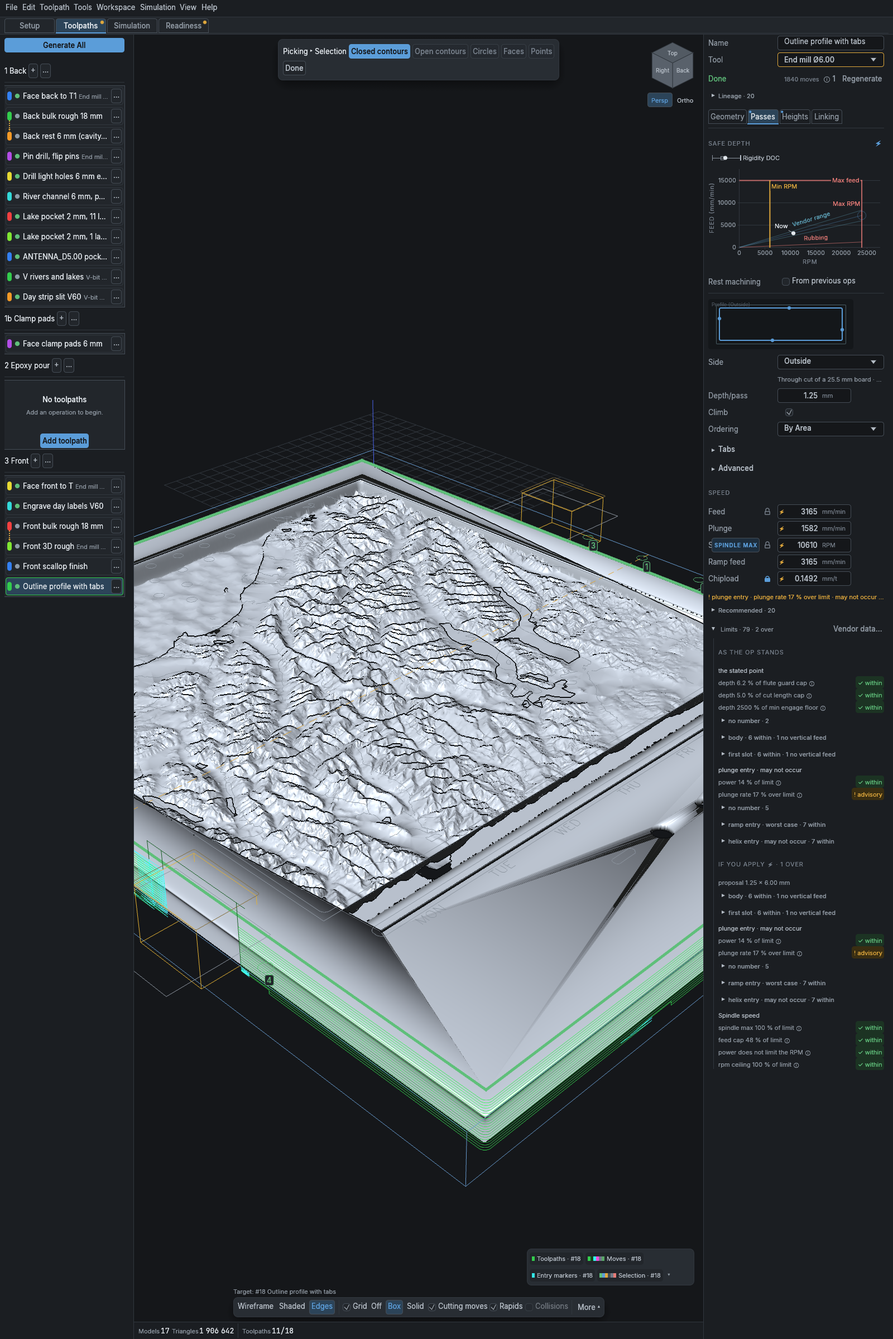
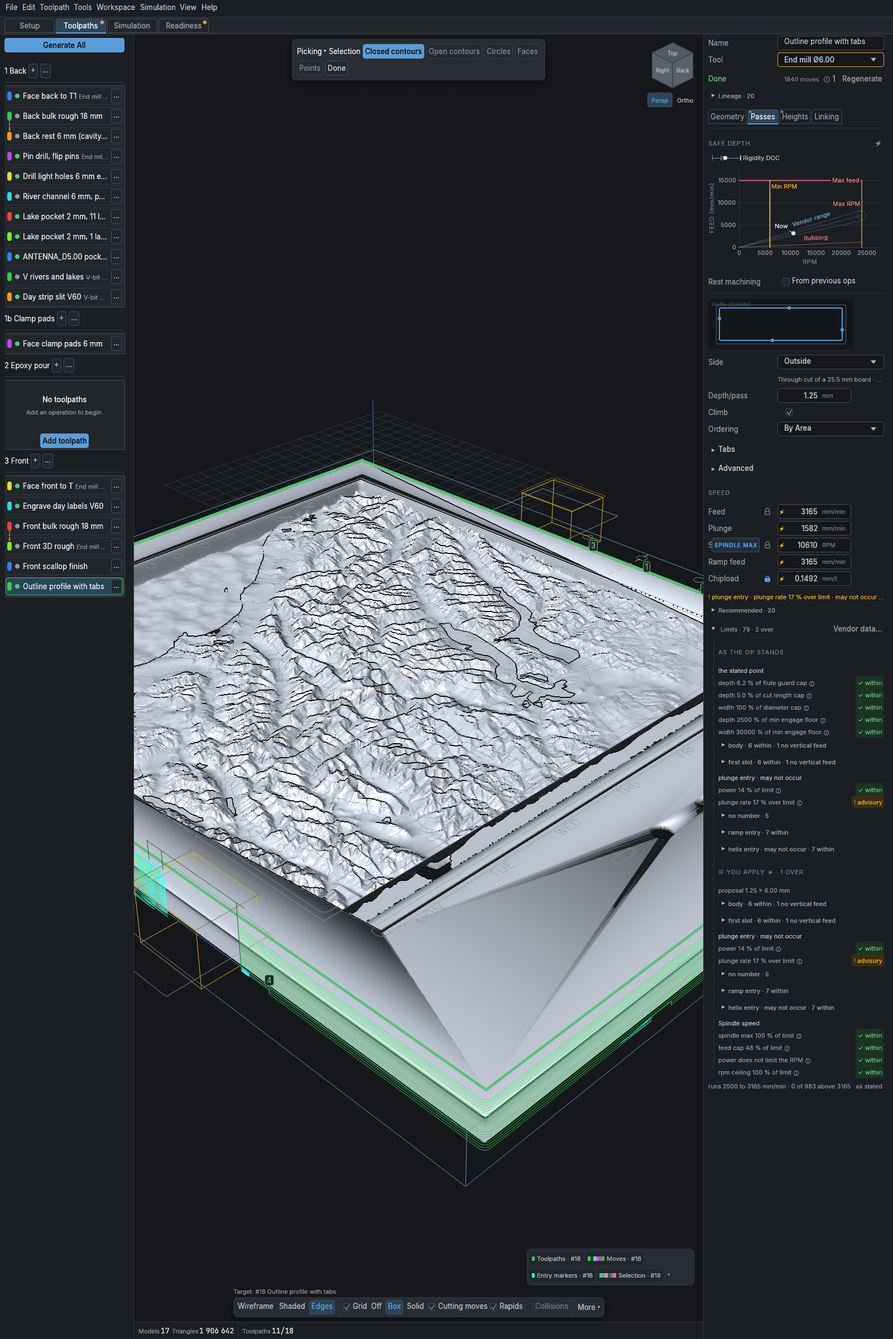
planning: the final screenshot set of P29-10 to P30 from one build, with the index and an export header

diff --git a/planning/feeds_contract_2026-11-03/phases/P29-10_shots/INDEX.md b/planning/feeds_contract_2026-11-03/phases/P29-10_shots/INDEX.md
@@ -1,115 +1,162 @@
 # P29-10 screenshots: the index
 
-Every "after" shot comes from ONE build: `rs_cam_gui` release, built from the
-P29-10 review tree (HEAD `4a6050c6b` plus the review patch), binary mtime
-2026-11-14 02:19. `gui_status` read "binary not newer than the process" before
-the shots. The operator file and the live file were loaded read-only; nothing
-was saved. Three GUI processes of that one binary took the shots: S1 (the
-first process, which the kernel OOM killer stopped later), S1b to S9 (the
-second), S10 (the third). The window is 1600 x 1400 points (2200 or 2400
-points high for an open drawer). The simulation views read the simulation that
-`generate_all` left (its fixpoint ran 3 simulations; the GUI read "18 traces",
-"live", Readiness "Simulation: Up to date · 18/18 operations"). A separate
-`run_simulation` was not used (see "Not shot"), so these views are not proven
-equal to the views after a `run_simulation`.
+## The build
 
-Commits: 10b `2853ab8b7`, 10c `ac23e7a4e`, 10e `aa60b4da8`, 10f `a381097c7`,
-10g `de37ede1c`; "review" is the review patch of 2026-11-14 (not committed).
+Every "after" file comes from ONE build and ONE GUI process: `rs_cam_gui`
+release, built from HEAD `f3d9645cb` plus the review patch R8 (not
+committed), binary mtime 2026-11-15 03:55:34. `gui_status` read "binary not
+newer than the process" after `gui_restart`. The window is 1600 x 1400
+points, 2400 points high for an open drawer. No project was saved; the
+operator file hash stayed
[1 lines of base64/hex data omitted]
 
-The "before" files were shot on a GUI built from `ef25930d6` (commit
-`9750a44dc`). A before file named `*_10g` is the 10g before set.
+- The operator file `planning/rivmap_block_job/nz_wanaka_21_operator.toml`:
+  loaded only; no `generate_all`, no `generate_toolpath`, no simulation.
+  After the load the GUI showed results for 11 of 18 ops ("Toolpaths
+  11/18"). These are the 11 ops that `list_toolpaths` gave as `stale`
+  right after the load (idx 0, 3, 4, 6, 7, 8, 10, 11, 12, 13, 17), so the
+  GUI regenerate sweep (`skips_automatic_generate`) most likely generated
+  them. The cause is inferred from that match, not traced; the GUI log
+  holds no line for them.
+- The simulated shots use `planning/fixtures/rivmap100/rivmap100.toml`:
+  `generate_all` (its plan ran 3 simulations at 0.2 mm), then ONE
+  `run_simulation`, then one `export_gcode`. GUI RSS 1.4 GB. The old
+  simulated shots of the operator file (S5, S6, S7, S9) are REPLACED by
+  these rivmap100 shots; the operator file was not simulated.
+- S10: `planning/fixtures/rivmap100/rivmap100_live_0925.toml`, no
+  simulation.
 
-| Shot | File before | File after | Op | What to look at | Commit |
-|---|---|---|---|---|---|
-| S1 | `before/S1_idx1_passes.png` | `after/S1_idx1_passes.png` | operator idx 1, Back bulk rough 18 mm | the SAFE CUT header has no `MayOccur` sentence; ONE face line "stated point · depth 387 % over force cap" in caution | `2853ab8b7`, `a381097c7` |
-| S1b | `before/drawer_idx1_open_10g.png` | `after/S1b_idx1_limits_open.png` | operator idx 1 | "As the op stands": the stated 10 x 5.5 mm rows; "If you apply ⚡ · 5 over": the proposal rows by cut; a quiet cut is one closed line, elided with the full text on hover | `a381097c7`, `de37ede1c`, review |
-| S2 | `before/S2_idx14_passes.png` | `after/S2_idx14_passes.png` | operator idx 14, Front bulk rough 18 mm | one face line "stated point · depth 73 % over force cap" | `a381097c7` |
-| S2 | none | `after/S2_idx14_limits_open.png` | operator idx 14 | the drawer by cut; the ramp entry rows carry "worst case" in the cut title | `a381097c7`, `de37ede1c` |
-| S2 | `before/S2_idx15_passes.png` | `after/S2_idx15_passes.png` | operator idx 15, Front 3D rough | one face line "stated point · depth 57 % over force cap" | `a381097c7` |
-| S2 | none | `after/S2_idx15_limits_open.png` | operator idx 15 | the drawer by cut (taller than 2400 points: the tail is under the frame) | `a381097c7`, `de37ede1c` |
-| S3 | `before/S3_idx0_passes.png` | `after/S3_idx0_passes.png` | operator idx 0, Face back to T1 | no face line (no stated row exceeds); "Limits · 51 · 2 over" | `a381097c7` |
-| S3 | none | `after/S3_idx0_limits_open.png` | operator idx 0 | the entry chip rows read "chip min < 0.1 % under floor" in caution (advisory), not danger | `a381097c7` |
-| S3 | `before/S3_idx12_passes.png` | `after/S3_idx12_passes.png` | operator idx 12, Face front to T | as idx 0 | `a381097c7` |
-| S3 | none | `after/S3_idx12_limits_open.png` | operator idx 12 | as idx 0 | `a381097c7` |
-| S4 | `before/S4_idx16_passes.png` | `after/S4_idx16_passes.png` | operator idx 16, Front scallop finish | the SAFE WIDTH bar; "Limits · 39 · 2 over" | `a381097c7` |
-| S4 | none | `after/S4_idx16_limits_open.png` | operator idx 16 | the rows with no number fold per cut; the helix entry chip rows in caution | `a381097c7`, `de37ede1c` |
-| S4 | `before/S4_idx5_passes.png` | `after/S4_idx5_passes.png` | operator idx 5, River channel 6 mm | the caution line "Depth, power and deflection: judged after the simulation" (elided) | `a381097c7` |
-| S4 | none | `after/S4_idx5_limits_open.png` | operator idx 5 | "Limits · 26": the stated part is one "no number · 8" line; the cuts fold | `a381097c7`, `de37ede1c` |
-| S5 | `before/S5_sim_idx1_metrics.png` | `after/S5_sim_idx1_metrics.png` | operator idx 1, playhead at its start | "Other limits": body and link depth rows; "Cut groups · 21" open with each group a row, `NotJudged` drill rows | `aa60b4da8` |
-| S5 | `before/S5_sim_idx2_metrics.png` | `after/S5_sim_idx2_metrics.png` | operator idx 2, playhead at its start | the entry group of idx 2 is its own row ("entry · depth 383 % over force cap") | `aa60b4da8` |
-| S6 | `before/S6_readiness.png` | `after/S6_readiness.png` | operator, whole run | the tool load block: the worst rows by the one rank | `aa60b4da8` |
-| S7 | `before/S7_sim_idx2_warnings.png` | `after/S7_sim_idx2_warnings.png` | operator idx 2 | the Warnings tab (578 safety findings fill the list) | `ac23e7a4e` |
-| S8 | `before/S8_idx6_passes.png` | `after/S8_idx6_simulated_passes.png` | operator idx 6, Lake pocket 2 mm (the simulation was present) | the slot ring mark at width D beside the proposal | `de37ede1c` |
-| S8 | none | `after/S8_idx6_simulated_limits_open.png` | operator idx 6 (the simulation was present) | "slot ring · 6 within · 1 no vertical feed" as one closed line | `de37ede1c` |
-| S9 | `before/S9_sim_idx1_10g.png` | `after/S9_sim_idx1_chart.png` | operator idx 1, playhead at its start | the width x depth chart: the planned marks at the stated point over the samples; the 100 % budget line in caution | `de37ede1c` |
-| S9 | `before/S9_sim_idx16_10g.png` | `after/S9_sim_idx16_chart.png` | operator idx 16, playhead at its start | the field draws with faint 25 / 50 / 75 % lines; no "budget, no limit here" line on this op (the field stays under 100 %) | `de37ede1c` |
-| S10 | `before/S10_live_idx1_passes_10g.png` | `after/S10_live_idx1_passes.png` | live file, 3D Rough ladder 8 > 2 | the proposal ⚡ 2.58 (2.585 mm); the face line "stated point · depth 33 % over vendor depth cap" in danger | `a381097c7`, `de37ede1c` |
-| S10 | none | `after/S10_live_idx1_limits_open.png` | live file, 3D Rough ladder 8 > 2 | the "first slot" and "planner cap" rows with "chip max .. over limit" in danger; "proposal 2.59 x 1.20 mm" | `a381097c7`, `de37ede1c` |
-| S11 | 10i or 10h shots (deleted) | `after/S11_idx1_passes.png`, `after/S11_idx1_limits_open.png` | operator idx 1, 10z (rulings Q2, R, T) | face line: planner cap · depth 387 % over force cap (caution where there is one); ruling R: the planner cap always occurs, so it ranks before the first slot (420 %, may not occur); part one opens with the title "the stated point" (ruling T); "chip max 21 % over limit" (body) and "24 %" (planner cap) read the caution chip "advisory" (Q2, before modulation) | release build 2026-11-14 06:48 of the 10z tree (`gui_status`: binary not newer than the process) |
-| S11 | 10i or 10h shots (deleted) | `after/S11_idx2_passes.png`, `after/S11_idx2_limits_open.png` | operator idx 2, 10z (rulings Q2, R, T) | face line: ramp entry · depth 100 % over force cap · worst case (caution where there is one); ruling R: the ramp entry always occurs and is further over than the planner cap (74 %); the planner cap "chip max 2.9 % over limit" is advisory (Q2) | release build 2026-11-14 06:48 of the 10z tree (`gui_status`: binary not newer than the process) |
-| S11 | 10i or 10h shots (deleted) | `after/S11_idx7_passes.png`, `after/S11_idx7_limits_open.png` | operator idx 7, 10z (rulings Q2, R, T) | face line: body · chip max 27 % over limit · before modulation (caution where there is one); Q2: the body chip max row now ranks, in caution; the ramp chip min row (-76 %) may not occur, so the body ranks first (ruling R) | release build 2026-11-14 06:48 of the 10z tree (`gui_status`: binary not newer than the process) |
-| S11 | 10i or 10h shots (deleted) | `after/S11_idx8_passes.png`, `after/S11_idx8_limits_open.png` | operator idx 8, 10z (rulings Q2, R, T) | face line: body · chip max 27 % over limit · before modulation (caution where there is one); Q2: before, no face line (the chip max rows were held off the face); the body, slot ring, ramp and helix chip max rows read advisory | release build 2026-11-14 06:48 of the 10z tree (`gui_status`: binary not newer than the process) |
-| S11 | 10i or 10h shots (deleted) | `after/S11_idx14_passes.png`, `after/S11_idx14_limits_open.png` | operator idx 14, 10z (rulings Q2, R, T) | face line: ramp entry · depth 78 % over force cap · worst case (caution where there is one); ruling R, as idx 2; the planner cap "chip max 3.4 % over limit" is advisory | release build 2026-11-14 06:48 of the 10z tree (`gui_status`: binary not newer than the process) |
-| S11 | 10i or 10h shots (deleted) | `after/S11_idx16_passes.png`, `after/S11_idx16_limits_open.png` | operator idx 16, 10z (rulings Q2, R, T) | face line: body · chip min 16 % under floor (caution where there is one); ruling R: the helix entry (chip min 91 % under, may not occur) ranks after the body | release build 2026-11-14 06:48 of the 10z tree (`gui_status`: binary not newer than the process) |
-| S11 | 10i or 10h shots (deleted) | `after/S11_idx6_passes.png`, `after/S11_idx6_limits_open.png` | operator idx 6, 10z (rulings Q2, R, T) | face line: ramp entry · chip min 76 % under floor · worst case (caution where there is one); no change from 10i | release build 2026-11-14 06:48 of the 10z tree (`gui_status`: binary not newer than the process) |
-| S11 | 10i or 10h shots (deleted) | `after/S11_idx17_passes.png`, `after/S11_idx17_limits_open.png` | operator idx 17, 10z (rulings Q2, R, T) | face line: plunge entry · plunge rate 17 % over limit · may not occur (caution where there is one); no change from 10i; the face line elides at the rail width ("may not occur ...") | release build 2026-11-14 06:48 of the 10z tree (`gui_status`: binary not newer than the process) |
-| S11 | 10i or 10h shots (deleted) | `after/S11_idx0_passes.png`, `after/S11_idx0_limits_open.png` | operator idx 0, 10z (rulings Q2, R, T) | face line: none (caution where there is one); no change from 10i; the stated-point title over three rows | release build 2026-11-14 06:48 of the 10z tree (`gui_status`: binary not newer than the process) |
-| S11 | 10i or 10h shots (deleted) | `after/S11_idx3_passes.png`, `after/S11_idx3_limits_open.png` | operator idx 3, 10z (rulings Q2, R, T) | face line: none (caution where there is one); no change from 10i; the body and the drill cycle fold as before | release build 2026-11-14 06:48 of the 10z tree (`gui_status`: binary not newer than the process) |
-| S12 | none (new) | `after/S12_idx7_passes.png`, `after/S12_idx7_limits_open.png` | operator idx 7, P30-1 and P30-2, no simulation | face line: danger "body · chip max 27 % over limit · until modulated" (was caution "before modulation"); drawer: the body and slot ring chip max rows read "exceeds"; the feeds line "runs 1258 mm/min · 0 of 144 above 1258 · as stated" in the muted colour | release build 2026-11-14 23:54 of the P30-2 tree (`gui_status`: binary not newer than the process) |
-| S12 | none (new) | `after/S12_idx8_passes.png`, `after/S12_idx8_limits_open.png` | operator idx 8, P30-1 and P30-2, no simulation | face line: danger "body · chip max 27 % over limit · until modulated"; drawer: body and slot ring "exceeds", the ramp and helix chip max rows stay "advisory" (worst case, may not occur); feeds line "runs 1258 mm/min · 0 of 200 above 1258 · as stated" | release build 2026-11-14 23:54 of the P30-2 tree (`gui_status`: binary not newer than the process) |
-| S12 | none (new) | `after/S12_idx1_passes.png`, `after/S12_idx1_limits_open.png` | operator idx 1, P30-2, no result | face line: danger "planner cap · chip max 24 % over limit · until modulated" (was caution "planner cap · depth 387 % over force cap"); drawer: body 21 % and planner cap 24 % chip max "exceeds", first slot 31 % stays "advisory" (may not occur); no feeds line (no result) | release build 2026-11-14 23:54 of the P30-2 tree (`gui_status`: binary not newer than the process) |
-| S12 | none (new) | `after/S12_idx0_passes.png`, `after/S12_idx0_limits_open.png` | operator idx 0, P30-1, no simulation | face line: none; feeds line "runs 6488 mm/min · 0 of 60 above 6488 · as stated" (muted) | release build 2026-11-14 23:54 of the P30-2 tree (`gui_status`: binary not newer than the process) |
-| S12 | none (new) | `after/S12_readiness.png` | operator file, Readiness | no check state changes; the new export warning is not a readiness row | release build 2026-11-14 23:54 of the P30-2 tree (`gui_status`: binary not newer than the process) |
-| S12 | none (new) | `after/S12_rivmap100_idx0_simulated_passes.png` | rivmap100 Face 5 after one simulation with modulation (the other three ops disabled, cell 0.5 mm) | two quiet lines under the Limits row: "runs 2333 to 3000 mm/min · 77 of 77 above 2200" in the caution colour, then "feeds: modulated, run 1" muted | release build 2026-11-15 00:11 of the final P30-2 tree (`gui_status`: binary not newer than the process) |
-| S12 | none (new) | `after/S12_rivmap100_idx0_sim_inspector.png`, `after/S12_rivmap100_idx0_sim_inspector_superseded.png` | rivmap100 Face 5, Simulation inspector: current (run 1), then after a second simulation at 0.4 mm | the same two lines under the Operation row; after the second run the stage line reads "feeds: modulated, run 1, not current" in the caution colour | release build 2026-11-15 00:11 of the final P30-2 tree (`gui_status`: binary not newer than the process) |
+The "before" files were shot on older builds (see the git history of this
+file); a before file of S5, S6, S7 or S9 shows the operator file, so it is
+not the same project as its after file.
 
-## Not shot
+## The shots
+
+| Shot | File before | File after | Project, op | What to look at |
+|---|---|---|---|---|
+| S1 | `before/S1_idx1_passes.png` | `after/S1_idx1_passes.png` | operator idx 1, Back bulk rough 18 mm | danger face line "planner cap · chip max 24 % over limit · until modulated"; "Limits · 153 · 14 over" |
+| S1b | `before/drawer_idx1_closed_10g.png` | `after/S1b_idx1_limits_open.png` | operator idx 1 | the stated point, body, planner cap (chip max 24 % exceeds), first slot rows; the drawer is longer than 2400 points: "If you apply" is under the frame |
+| S2 | `before/S2_idx14_passes.png` | `after/S2_idx14_passes.png` | operator idx 14, Front bulk rough 18 mm | danger face line "planner cap · chip max 3.4 % over limit · until modulated..." (elided) |
+| S2 | none | `after/S2_idx14_limits_open.png` | operator idx 14 | the ramp entry rows carry "worst case" on the depth and power rows only (R2) |
+| S2 | `before/S2_idx15_passes.png` | `after/S2_idx15_passes.png` | operator idx 15, Front 3D rough | danger face line "planner cap · chip max 3.1 % over limit · until modulated" |
+| S2 | none | `after/S2_idx15_limits_open.png` | operator idx 15 | the drawer by cut; the tail is under the frame |
+| S3 | `before/S3_idx0_passes.png` | `after/S3_idx0_passes.png` | operator idx 0, Face back to T1 | no face line; "Limits · 81"; the muted line "runs 6488 mm/min · 0 of 60 above 6488 · as stated" |
+| S3 | none | `after/S3_idx0_limits_open.png` | operator idx 0 | every stated row within; cuts fold to one line each |
+| S3 | `before/S3_idx12_passes.png` | `after/S3_idx12_passes.png` | operator idx 12, Face front to T | as idx 0 ("0 of 62 above 6488") |
+| S3 | none | `after/S3_idx12_limits_open.png` | operator idx 12 | as idx 0 |
+| S4 | `before/S4_idx16_passes.png` | `after/S4_idx16_passes.png` | operator idx 16, Front scallop finish | caution face line "body · chip min 16 % under floor"; the SAFE WIDTH bar |
+| S4 | none | `after/S4_idx16_limits_open.png` | operator idx 16 | helix entry chip min 91 % and rubbing 73 % under floor, advisory (may not occur) |
+| S4 | `before/S4_idx5_passes.png` | `after/S4_idx5_passes.png` | operator idx 5, River channel 6 mm | caution line "Depth, power and deflection: judged after the simulation..." (elided) |
+| S4 | none | `after/S4_idx5_limits_open.png` | operator idx 5 | "Limits · 39"; the cuts fold; "plunge entry · 1 within · 4 not modelled" |
+| S5 | `before/S5_sim_idx1_metrics.png` (operator) | `after/S5_sim_idx0_metrics.png`, `after/S5_sim_idx0_metrics_groups_open.png` | rivmap100 idx 0 Face 5, playhead at its start | caution "runs 2333 to 3000 mm/min · 77 of 77 above 2200", "feeds: modulated, run 1"; Cut groups · 21 open |
+| S5 | `before/S5_sim_idx2_metrics.png` (operator) | `after/S5_sim_idx1_metrics.png`, `after/S5_sim_idx1_metrics_groups_open.png` | rivmap100 idx 1 3D Rough | "runs 559 to 3000 mm/min · 2563 of 5787 above 2400"; the cleanup and link groups have their own rows |
+| S5 | none | `after/S5_sim_idx2_metrics.png`, `after/S5_sim_idx2_metrics_groups_open.png` | rivmap100 idx 2 Scallop Finish | "Cut force · no limit"; depth rows "no limit here"; Width 1 to 123 % of D |
+| S5 | none | `after/S5_sim_idx3_metrics.png`, `after/S5_sim_idx3_metrics_groups_open.png` | rivmap100 idx 3 Project Curve | "runs 3000 mm/min · 478 of 478 above 1000"; Chipload "100 % below floor (rubbing)" under a green check |
+| S6 | `before/S6_readiness.png` (operator) | `after/S6_readiness.png` | rivmap100 after the simulation, Readiness | Simulation up to date 4/4; tool load block: the worst rows by the one rank, all within |
+| S7 | `before/S7_sim_idx2_warnings.png` (operator) | `after/S7_sim_warnings.png` | rivmap100, Simulation Warnings tab | 6 findings in caution, then the blue "wasted around" rows; each line elides |
+| S8 | `before/S8_idx6_passes.png` | `after/S8_idx6_passes.png` | operator idx 6, Lake pocket 2 mm (no simulation) | caution face line "ramp entry · chip min 76 % under floor · may not occur"; "runs 990 to 1010 mm/min · 0 of 27580 above 1010 · as stated" |
+| S8 | none | `after/S8_idx6_limits_open.png` | operator idx 6 | "slot ring · 6 within · 1 no vertical feed" as one closed line; ramp and helix rubbing 46 % under floor, advisory |
+| S9 | `before/S9_sim_idx1_10g.png` (operator) | in `after/S5_sim_idx1_metrics.png` | rivmap100 idx 1, Width x depth chart | the field with 25 / 50 / 75 % lines, "100 % budget" in caution, the planned marks |
+| S9 | `before/S9_sim_idx16_10g.png` (operator) | in `after/S5_sim_idx2_metrics.png` | rivmap100 idx 2, Width x depth chart | the field under "Vendor DOC 3xD"; no budget line (no force limit on this cut) |
+| S10 | `before/S10_live_idx1_passes.png` | `after/S10_live_idx1_passes.png` | live file idx 1, 3D Rough ladder 8 > 2 | proposal ⚡ 2.58; danger face line "stated point · depth 33 % over vendor depth cap" |
+| S10 | none | `after/S10_live_idx1_limits_open.png` | live file idx 1 | the stated point: "depth 33 % over vendor depth cap" exceeds; body, planner cap, first slot rows |
+| S11 | none | `after/S11_idx2_passes.png`, `after/S11_idx2_limits_open.png` | operator idx 2, Back rest 6 mm | danger face line "planner cap · chip max 2.9 % over limit · until modulated..." (elided); the planner cap chip max row exceeds |
+| S11 | none | `after/S11_idx3_passes.png`, `after/S11_idx3_limits_open.png` | operator idx 3, Pin drill | no face line; the body and the drill cycle fold; "no cutting move · as stated" |
+| S11 | none | `after/S11_idx17_passes.png`, `after/S11_idx17_limits_open.png` | operator idx 17, Outline profile with tabs | caution face line "plunge entry · plunge rate 17 % over limit · may not occur ..." (elided) |
+| S12 | none | `after/S12_idx7_passes.png`, `after/S12_idx7_limits_open.png` | operator idx 7, Lake pocket 2 mm, 1 lake | danger "body · chip max 27 % over limit · until modulated"; "runs 1258 mm/min · 0 of 144 above 1258 · as stated" |
+| S12 | none | `after/S12_idx8_passes.png`, `after/S12_idx8_limits_open.png` | operator idx 8, ANTENNA pocket | danger "body · chip max 27 % over limit · until modulated"; the ramp entry chip max exceeds, the helix one is advisory (may not occur) |
+| S12 | none | `after/S12_readiness.png` | operator file, Readiness (no simulation) | Simulation "Not run"; the tool load block reads "no simulation"; the export warning is not a readiness row |
+| S12 | none | `after/S12_rivmap100_idx0_simulated_passes.png` | rivmap100 Face 5 after the simulation, Passes | danger "ramp entry · rubbing 44 % under floor"; caution "runs 2333 to 3000 mm/min · 77 of 77 above 2200", "feeds: modulated, run 1" |
+| S13 | none | `after/S13_idx4_passes.png`, `after/S13_idx9_passes.png`, `after/S13_idx10_passes.png`, `after/S13_idx11_passes.png`, `after/S13_idx13_passes.png` | operator idx 4, 9, 10, 11, 13 | the face line of the five ops that no other shot shows |
+| E1 | none | `after/export_header_rivmap100.txt` | rivmap100 export after the simulation | four `export.stated_cut_over_limit` header lines (R8: rubbing rows, "no measured gate"); the "feeds run ... above the stated" lines of each op |
+
+## The face line of each of the 18 operator ops (no simulation)
+
+Danger is the red line with the X, caution the yellow line with "!".
+
+The face line is the worst stated row that exceeds (the same rows as the
+R2 to R5 "after" table of `review_2026-11-15/FIXES.md`). A card note is a
+separate line of the card that is not a stated row (idx 5 and idx 9).
+
+| idx | op | face line | other card note |
+|---|---|---|---|
+| 0 | Face back to T1 | none | none |
+| 1 | Back bulk rough 18 mm | danger: planner cap · chip max 24 % over limit · until modulated | none |
+| 2 | Back rest 6 mm | danger: planner cap · chip max 2.9 % over limit · until modulated (elided) | caution header: Move budget not met at the depth |
+| 3 | Pin drill, flip pins | none | none |
+| 4 | Drill light holes 6 mm end mill | none | none |
+| 5 | River channel 6 mm, pass 7 of 7 | none | caution: Depth, power and deflection: judged after the simulation (elided) |
+| 6 | Lake pocket 2 mm, 11 lakes | caution: ramp entry · chip min 76 % under floor · may not occur | none |
+| 7 | Lake pocket 2 mm, 1 lake | danger: body · chip max 27 % over limit · until modulated | none |
+| 8 | ANTENNA_D5.00 pocket 2 mm | danger: body · chip max 27 % over limit · until modulated | none |
+| 9 | V rivers and lakes | none | caution: Engaged Ø 1.12 mm at DOC 3.17 mm; caution: Depth, power and deflection: judged after the simulatio... |
+| 10 | Day strip slit V60 | none | status banner: Cuts below the stock |
+| 11 | Face clamp pads 6 mm | caution: ramp entry · chip min 66 % under floor · may not occur | none |
+| 12 | Face front to T | none | none |
+| 13 | Engrave day labels V60 | none | none |
+| 14 | Front bulk rough 18 mm | danger: planner cap · chip max 3.4 % over limit · until modulated (elided) | none |
+| 15 | Front 3D rough | danger: planner cap · chip max 3.1 % over limit · until modulated | none |
+| 16 | Front scallop finish | caution: body · chip min 16 % under floor | none |
+| 17 | Outline profile with tabs | caution: plunge entry · plunge rate 17 % over limit · may not occur (elided) | none |
+
+Ten ops carry a face line: six danger (idx 1, 2, 7, 8, 14, 15) and four
+caution (idx 6, 11, 16, 17). As predicted in FIXES R2 to R5.
 
 
-- The tool panel (`tool_panel_helix_10e2.png` in the 10e set): `set_ui_view`
-  cannot select a tool, and no input tool can click the GUI on this Wayland
-  session. The review patch does not change the tool panel.
-- The Passes card at 240 points (review item 1): in the Toolpaths workspace a
-  700-point window keeps the inspector at 340 points (the viewport dock
-  overlaps it), and MCP has no door to resize the panel. The headless test
-  `inspector_width_is_tab_independent_up4` holds the 240-point layout.
-- S8 before the simulation: the simulation of `generate_all` was present for
-  every Toolpaths shot, so no S8 shot shows the generated state alone.
-- A fresh `run_simulation`: the first call OOM-killed the GUI (kernel OOM,
-  15 GB anonymous memory, about 14 GB free on the machine). The simulation
-  shots read the full run of `generate_all`.
+## What the operator is asked to judge
 
-## Seen on the shots, outside the five review items
+From `NEXT_SESSION.md` (rows "P29-10 GUI", "P29-11 and P29-last", "P30
+modulation"):
 
-- S7: 578 "The shank meets the stock" safety findings fill the Warnings list,
-  so the headline and the entry-group findings of idx 2 are not in view.
-- S9 idx 16: the cut force card reads "Width 1 to 154 % of D · peak 154 %": a
-  sample wider than the tool diameter.
-- S5, S9 (1400 points high, shot after a 2200-point shot): a black band about
-  60 points high under the timeline. The window resize leaves it.
-- S1, S1b: the hover text of "Generate All" covers the "1 Back" setup header
-  (the pointer rests on the button).
-- S1: the transient "Computing faces — 0 s" job and the pick bar text
-  "Computing faces..." (the shot came right after the load).
-- S4 idx 16 and idx 5: the status bar reads "RCH running" (the reach job) and
-  the dock shows "Cancel all jobs".
-- At 340 points the longer quiet-cut headers of the Limits drawer elide
-  ("plunge entry · may not occur · 2 within · 5 not mod..."); the full text is
-  on the hover (review item 1).
-- S3: the Face entry chip rows read "chip min < 0.1 % under floor" with no
-  "stored feed" word; section 7 of the design expects "· stored feed".
-- S11 (10z): under the new title "the stated point" the engagement floor rows
-  read large shares ("depth 12000 % of min engage floor", "width 40000 % of
-  min engage floor" on idx 3 and idx 0). They are within; the share of a
-  floor that holds by a wide margin reads as noise. 10z does not change them.
-- S11 (10z) idx 17: the face line "plunge entry · plunge rate 17 % over limit
-  · may not occur" (58 characters) elides at the 340-point rail.
-- S12 (P30): a first build printed the feeds line as one line, and after a
-  simulation it elided its stage ("... above 2200 · modul..."). The final build
-  prints the stage on its own line after a feed stage; with the stated feeds
-  the one line fits ("... · as stated").
-- S12 (P30): on rivmap100, a second simulation with modulation at another
-  cell size (0.2 to 0.5 mm, and again 0.5 to 0.4 mm) left Face 5 "modulated,
-  run 1, not current". The reason was not traced; a likely cause is that the
-  second pass changed no feed, so the slot kept the tag of run 1 with its old
-  stock record. The export names it in the feeds caution.
+1. The red and caution lines on the 18 ops (table above): are ten face
+   lines (six danger, four caution) too many? The danger lines are the
+   chip maximum "until modulated" (P30-2); the caution lines are entry rows
+   that may not occur and a body chip floor. Two more ops show the caution
+   note "judged after the simulation".
+2. The two-part Limits drawer: "As the op stands" (the stated point and
+   each declared cut) and "If you apply ⚡" (the proposal). Do the
+   engagement floor shares ("width 40000 % of min engage floor") read as
+   noise?
+3. The "runs ... above the stated feed" line: after a simulation with
+   modulation the exported feeds are above the stated feed (Face 5: 77 of
+   77 cutting moves at 2333 to 3000 mm/min against 2200; Project Curve: 478
+   of 478 at 3000 against 1000). May a move run faster than the typed feed
+   (P30 options A to F)?
+4. The export header (`after/export_header_rivmap100.txt`): the warning
+   lines and the feeds lines of each op.
+5. A row is over before the simulation and within after it, because the
+   simulation changes the feed (the modulation design step).
+
+## Seen on the shots (not changed in the product)
+
+- Long Limits drawers (idx 1, 2, 14, 15) run past 2400 points: the "If you
+  apply" part is under the frame.
+- Face lines elide at the 340-point rail: idx 2, 5, 9, 14, 17.
+- Engagement floor shares read as noise: "depth 20000 % of min engage
+  floor", "width 40000 % of min engage floor".
+- idx 6, 7, 8, 16 and live idx 1: the ramp and helix entry show two rows
+  with the same face "depth inside, no bound here".
+- idx 3 and idx 4 (drill ops with 118 and 463 moves) read "no cutting move ·
+  as stated".
+- rivmap100 Project Curve, Metrics: the Chipload card has a green check and
+  "peak 35 % of limit" over "100 % below floor (rubbing)"; the end tick of
+  the axis ("▸0.076") overlaps a digit. The Cut groups list has no rubbing
+  row, and the Readiness tool load block is all within, while the export
+  warns for the rubbing row (R8). The cut group "entry · deflection 0 % of
+  limit" reads "0 %".
+- rivmap100 Scallop Finish: "Width 1 to 123 % of D · peak 123 %" (a sample
+  wider than the tool); the "runs ..." line elides.
+- rivmap100 Face 5, Passes after the simulation: "Operating point
+  (measured) · Achieved peak chip 0.0667 mm/t · ! within band (b..." reads a
+  caution chip on a "within" word, elided.
+- S7: every Warnings line elides at the inspector width; the line
+  "plunge-class motion descends faster than this op's ..." shows twice.
+- The status bar reads "Modified" after `generate_all` (not saved).
+- In the export, the header of the next op (name and feeds lines) comes
+  before its `M5` and `TOOL CHANGE` lines.
+- S9 has no file of its own: the chart is in the S5 shots of idx 1 and 2.
+- `S5_sim_idx2_metrics.png` (1400 points) ends above "Other limits", so the
+  closed "Cut groups" line is not in that shot; the groups-open shot shows
+  it.
+- A transient "RCH running" job was in the first S4 idx 16 Passes shot; it
+  was shot again with no job.
